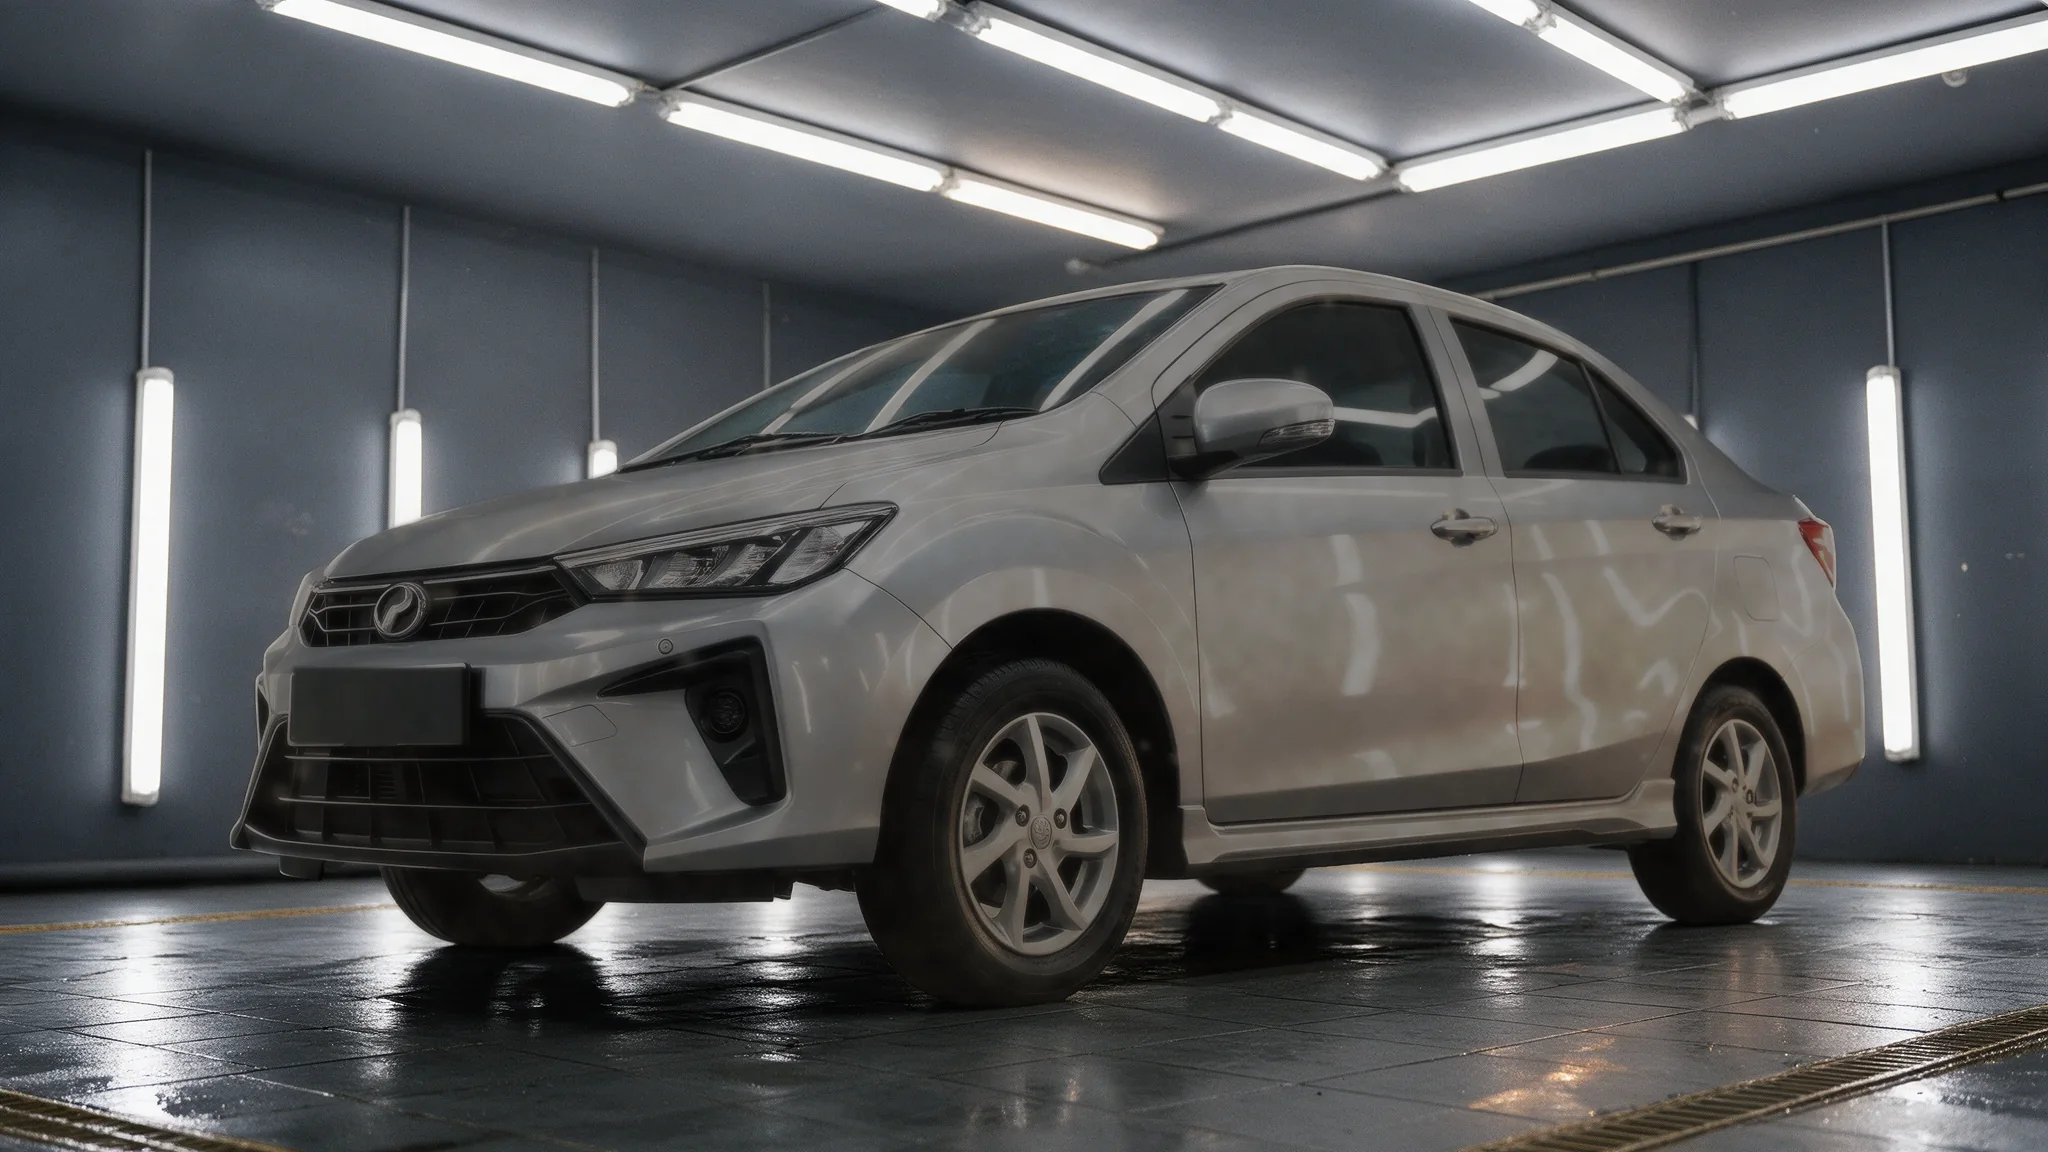
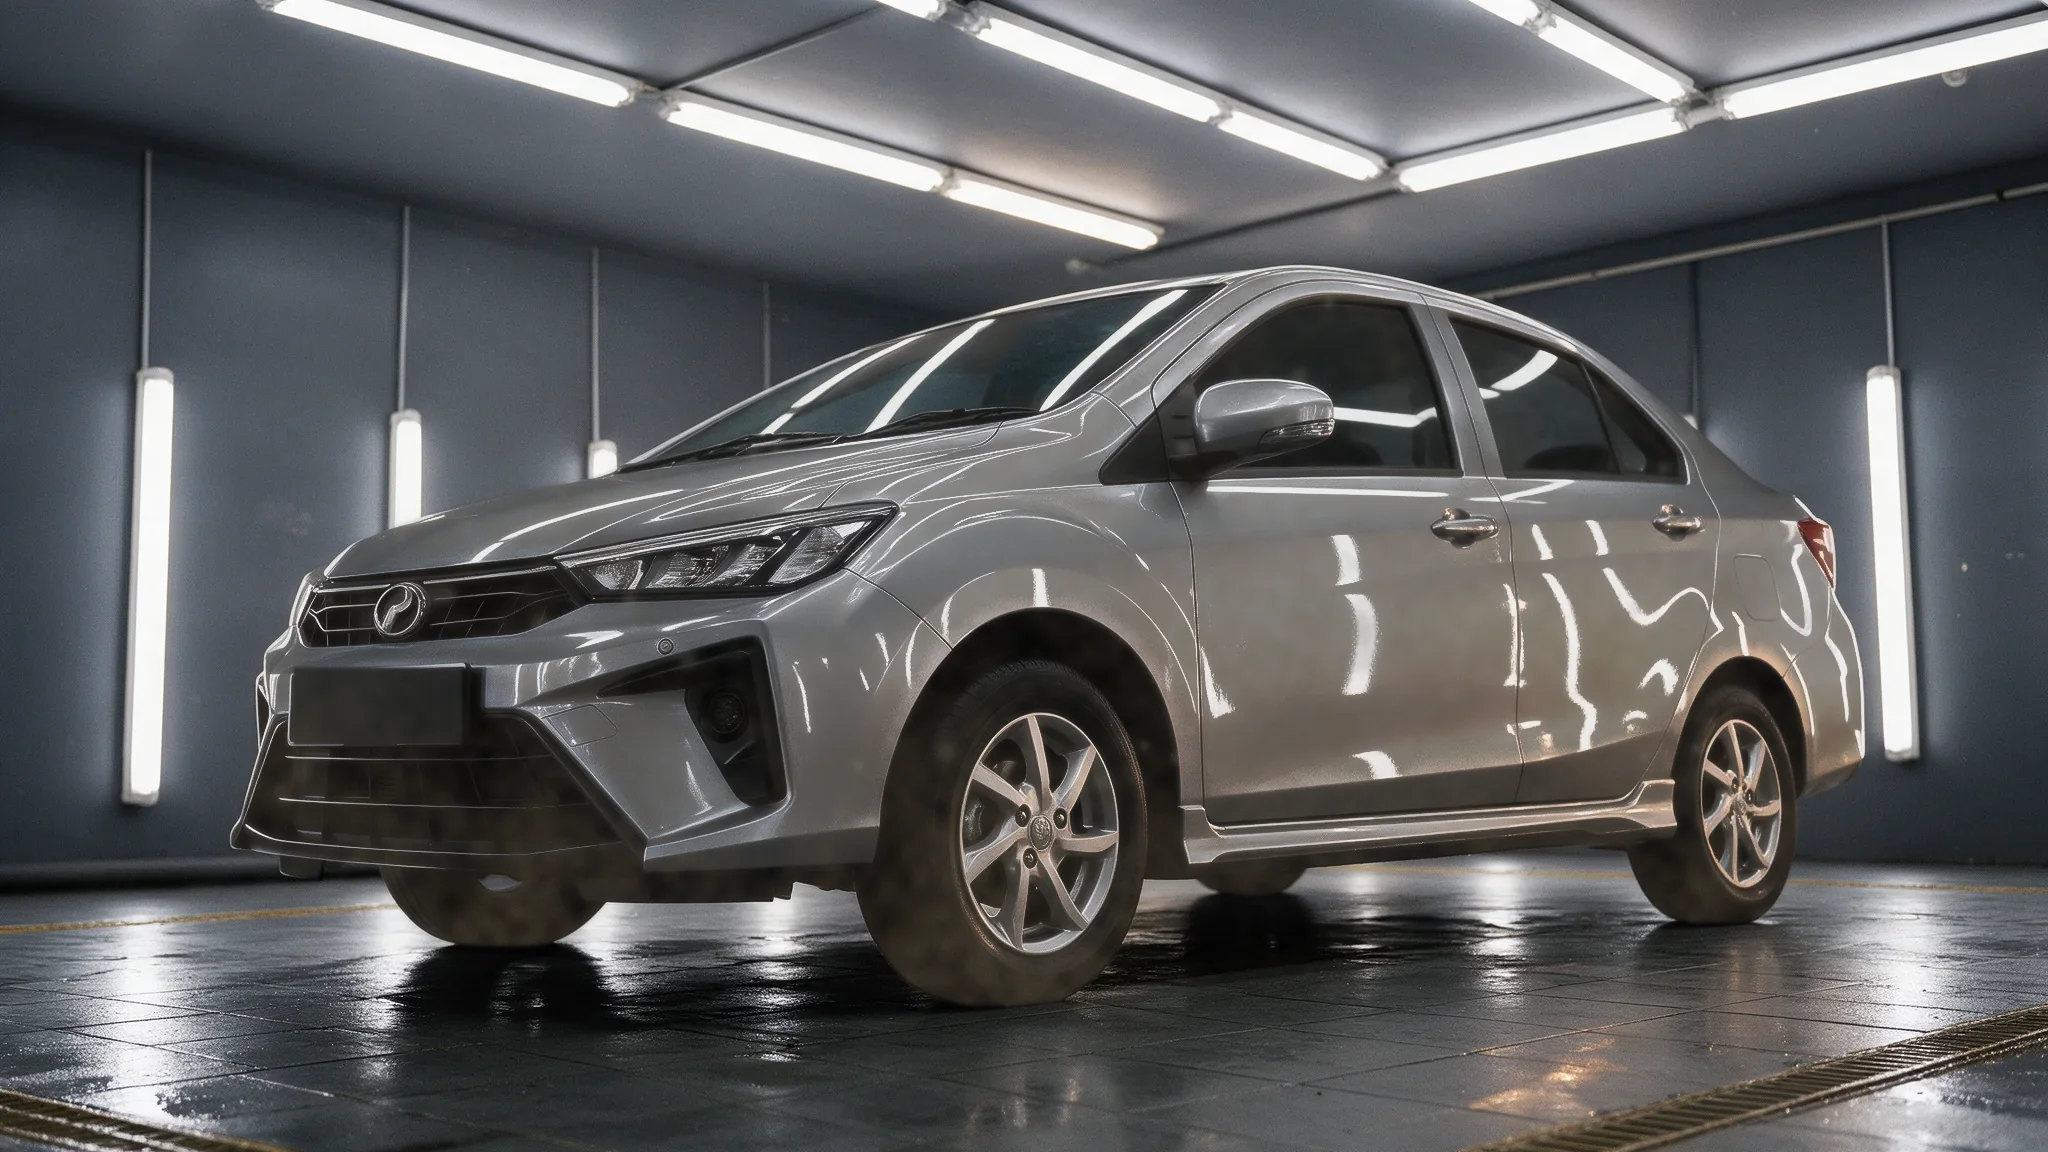
Keep the grime off lamps, glass and chrome
The dust weighting scaled with raw luminance, meant to favour sunlit upper
panels. But lamp lenses, glass and chrome are the brightest things in frame, so
they collected the heaviest grime, which is what made the whole effect read as
a filter laid over the photograph.

Highlights are now found as local maxima, pixels well above their own
neighbourhood, rather than by absolute brightness, which works whatever the
car's colour. Dust is held off them and their original specular shine reads
back through the composite, so the lamps stay wet-looking while the paint
around them goes flat.

diff --git a/tools/make_before.py b/tools/make_before.py
@@ -55,7 +55,16 @@ dust = gaussian_filter((dust - dust.min()) / (np.ptp(dust) + 1e-6), 1.2)
 ys = np.linspace(0, 1, H)[:, None]
 settled = np.clip((1.15 - ys * 0.7) ** 2.1, 0, 1.4)          # dust on upward faces
 spray = np.clip((ys - 0.42) / 0.58, 0, 1) ** 1.3 * 1.55      # road spray low down
-weight = np.clip((settled * 0.72 + spray) * (0.30 + 1.0 * np.clip(lum * 1.7, 0, 1)), 0, 1.6)
+weight = np.clip(settled * 0.72 + spray, 0, 1.6)
+
+# Glass, lamp lenses and chrome do not hold dirt the way paint does, and they are
+# the brightest things in the frame. Find them as local highlights — pixels well
+# above their own neighbourhood — and keep the dust off them. Weighting dust by
+# raw luminance instead puts the heaviest grime straight onto the headlamps,
+# which is what gives the whole thing away as a filter.
+local = gaussian_filter(lum, 14)
+spec = np.clip((lum - local - 0.045) / 0.16, 0, 1)
+weight = weight * (1.0 - 0.92 * spec)
 dust_amt = np.clip(dust * weight, 0, 1)[..., None]
 
 # ---- 3. kill the gloss -------------------------------------------------------
@@ -82,6 +91,10 @@ tone = np.array([0.56, 0.53, 0.47]) if light_car else np.array([0.72, 0.70, 0.66
 work = work * (1 - spots[..., None]) + tone * spots[..., None]
 
 # ---- 6. composite over the untouched bay -------------------------------------
+# let the original specular highlights read back through, so lamps and glass
+# keep their shine while the paint around them goes flat
+keep = (spec * 0.85)[..., None] * m
+work = np.clip(work, 0, 1) * (1 - keep) + a * keep
 out = a * (1 - m) + np.clip(work, 0, 1) * m
 halo = np.clip(gaussian_filter(mask, 26) - mask, 0, 1)[..., None]
 out = out * (1 - halo * 0.05) + DUST * (halo * 0.05)
